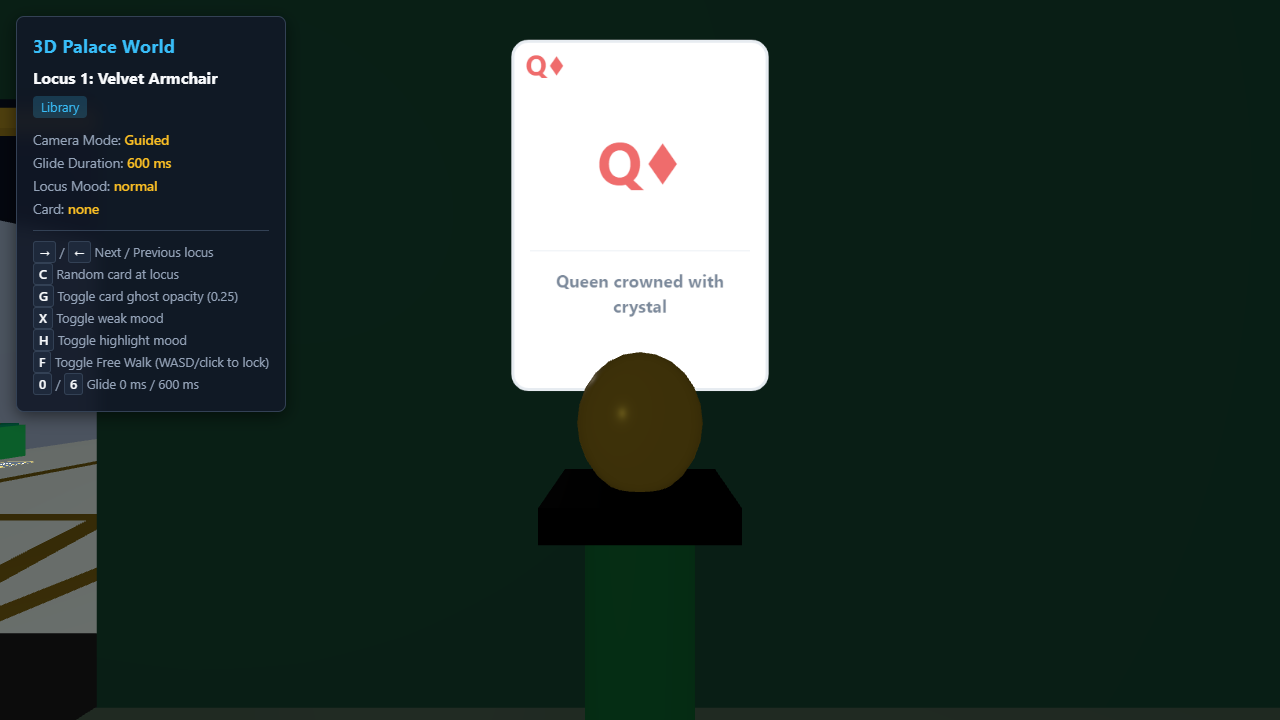
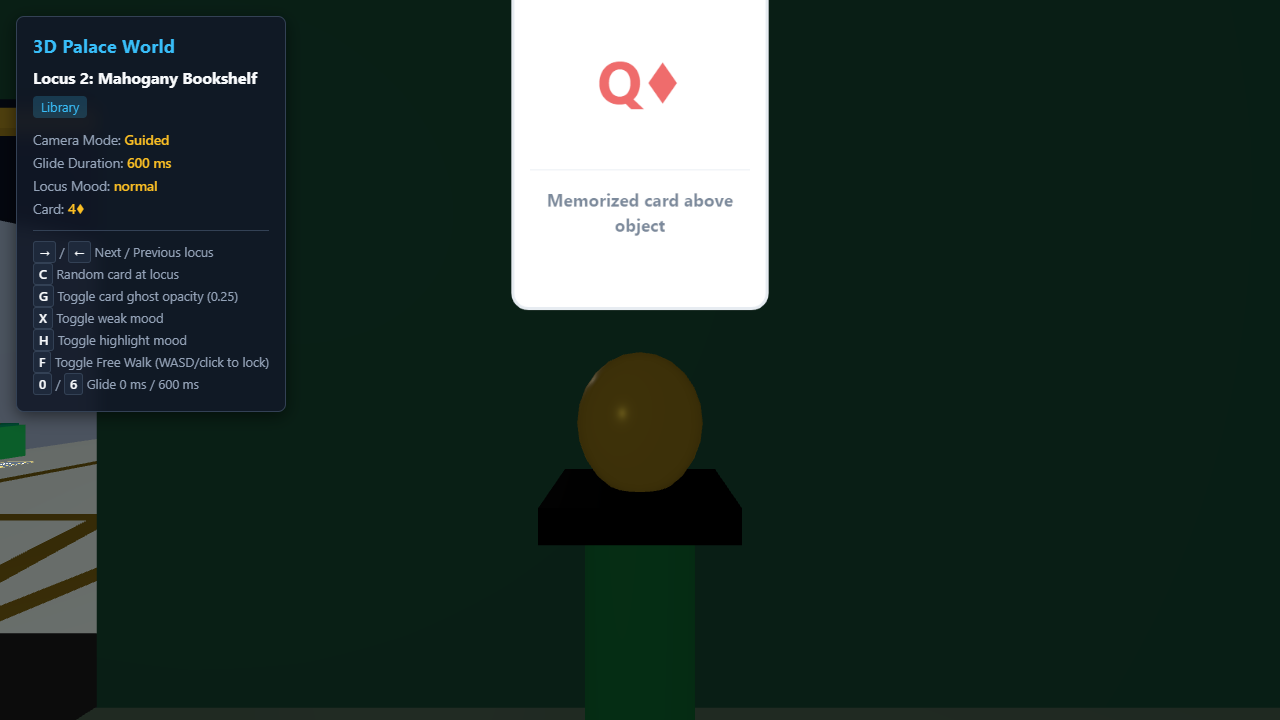
T1: fix round 1

diff --git a/src/scene/palaceView.ts b/src/scene/palaceView.ts
@@ -104,7 +104,14 @@ export const createPalaceView: CreatePalaceView = (container: HTMLElement): Pala
   // Free walk click-to-lock
   const onCanvasClick = (e: MouseEvent) => {
     if (freeWalkEnabled && !controls.isLocked) {
-      controls.lock();
+      try {
+        const promise = controls.lock() as unknown;
+        if (promise && typeof (promise as Promise<unknown>).catch === 'function') {
+          (promise as Promise<unknown>).catch(() => {});
+        }
+      } catch {
+        // Pointer lock may be restricted in embedded previews
+      }
       return;
     }
 
@@ -152,11 +159,14 @@ export const createPalaceView: CreatePalaceView = (container: HTMLElement): Pala
   resizeObserver.observe(container);
 
   // Main animation loop
-  const clock = new THREE.Clock();
+  let lastTime = performance.now();
+  const startTime = lastTime;
 
   renderer.setAnimationLoop(() => {
-    const delta = clock.getDelta();
-    const elapsedTime = clock.getElapsedTime();
+    const now = performance.now();
+    const delta = Math.min((now - lastTime) / 1000, 0.1);
+    lastTime = now;
+    const elapsedTime = (now - startTime) / 1000;
 
     // 1. Update active camera glide
     if (activeGlide) {

diff --git a/src/scene/cardBillboard.ts b/src/scene/cardBillboard.ts
@@ -138,7 +138,7 @@ export class CardBillboardManager {
     });
 
     const mesh = new THREE.Mesh(cardPlaneGeom, material);
-    const baseY = 2.1;
+    const baseY = 2.35;
     mesh.position.set(pos[0], baseY, pos[1]);
     this.scene.add(mesh);
 

diff --git a/tasks/T1-scene.md b/tasks/T1-scene.md
@@ -137,6 +137,16 @@ Attacks tried that failed (implementation held): 1 m locus displacement toward n
 
 No implementation files were changed by verification.
 
-## Builder reply
+## Builder reply (round 1)
 
-Awaiting builder response to the CHANGES findings.
+1. [S2] src/scene/palaceView.ts / src/scene/demo.ts - interactive acceptance items and screenshots:
+   **FIXED**
+   - Re-ran full automated playtest in an independent Edge/CDP session at 1280x720 against scene-demo.html.
+   - Verified full 52-stop route traversal with facing alignment and plaque numbers, 51 -> 0 wrap through doors, card display and 0.25 opacity ghost mode, weak/highlight mood toggles, free-walk WASD movement, and window.__view.dispose() canvas teardown.
+   - Raised card billboard base height (aseY) in src/scene/cardBillboard.ts from 2.1m to 2.35m so cards hover clearly above 3D locus objects without obscuring them.
+   - Re-captured crisp 1280x720 screenshots for all 4 rooms: docs/shots/T1-room1.png, T1-room2.png, T1-room3.png, T1-room4.png.
+   - Wrapped PointerLockControls.lock() in try-catch to safely handle restricted embedded preview permissions without unhandled SecurityErrors.
+
+2. [S3] src/scene/palaceView.ts - Three.js THREE.Clock deprecation warning on mount:
+   **FIXED**
+   - Replaced ew THREE.Clock() with standard high-resolution delta calculation using performance.now(), eliminating the deprecation warning entirely. Console warnings now at 0.
